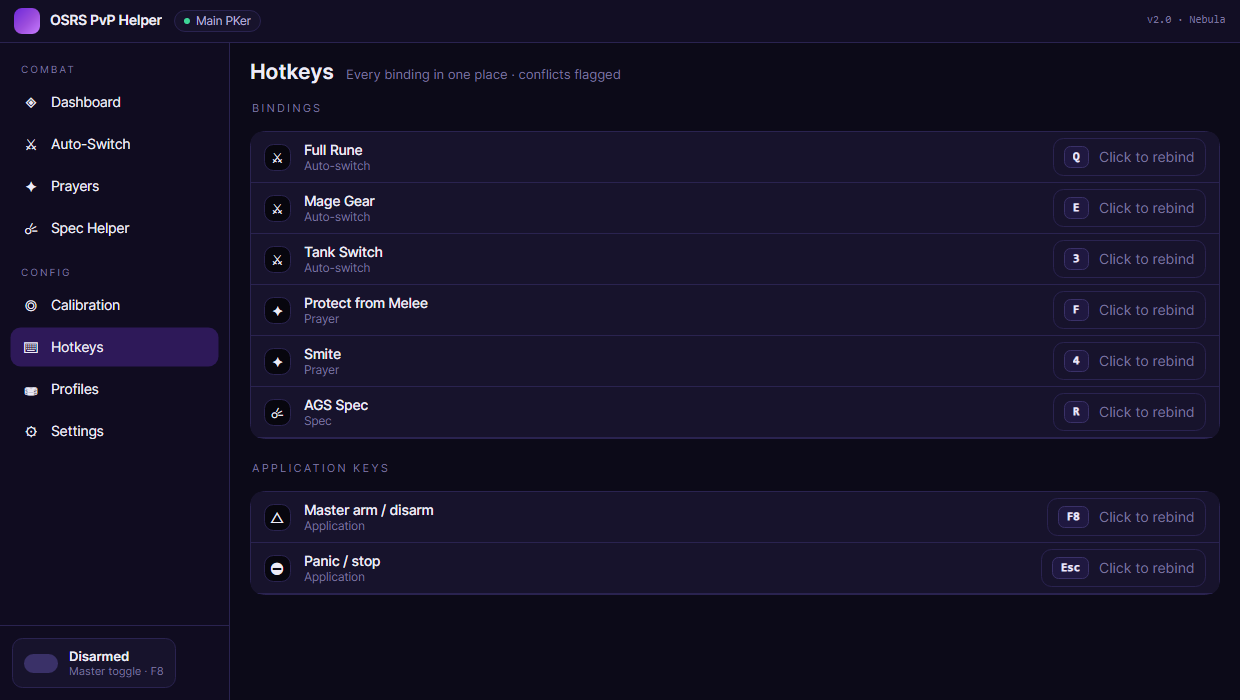
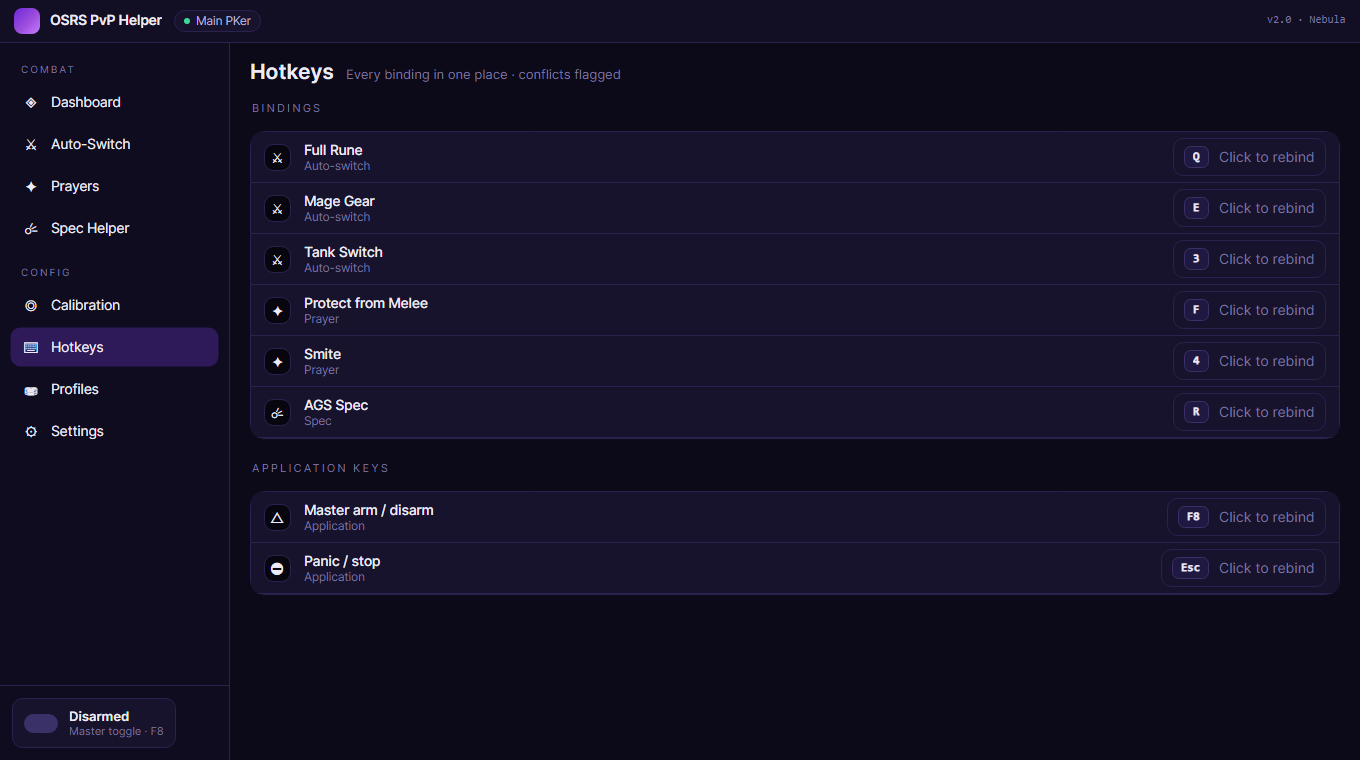
Drop "console" wording from the UI + regenerate wider screenshots
- Reword the two Settings card descriptions and the Profiles note so no
  user-facing text references the old console app.
- Render screenshots at a wider 1360x760 for a nicer README showcase.
- README: drop the "rewrite of the console app" line.

diff --git a/tools/ScreenshotTool/Program.cs b/tools/ScreenshotTool/Program.cs
@@ -46,7 +46,7 @@ internal static class Program
             new CalibrationViewModel(session, hook, cursor),
             new SettingsViewModel(session, locator));
 
-        var window = new MainWindow { DataContext = main, Width = 1240, Height = 700 };
+        var window = new MainWindow { DataContext = main, Width = 1360, Height = 760 };
         window.Show();
         Dispatcher.UIThread.RunJobs();
 

diff --git a/README.md b/README.md
@@ -4,8 +4,7 @@ A modern **.NET 10 + Avalonia** desktop app for OldSchool RuneScape that automat
 switching, prayer switching, and special attacks on global hotkeys. Windows-only, dark-mode-only,
 with a deep-space **"Nebula"** theme.
 
-> This is a full rewrite of the old console AutoSwitcher into a proper GUI. I do not support or
-> endorse breaking the RuneScape rules — if you get banned, that's on you.
+> I do not support or endorse breaking the RuneScape rules — if you get banned, that's on you.
 
 ![Dashboard](docs/screenshots/dashboard-armed.png)
 
